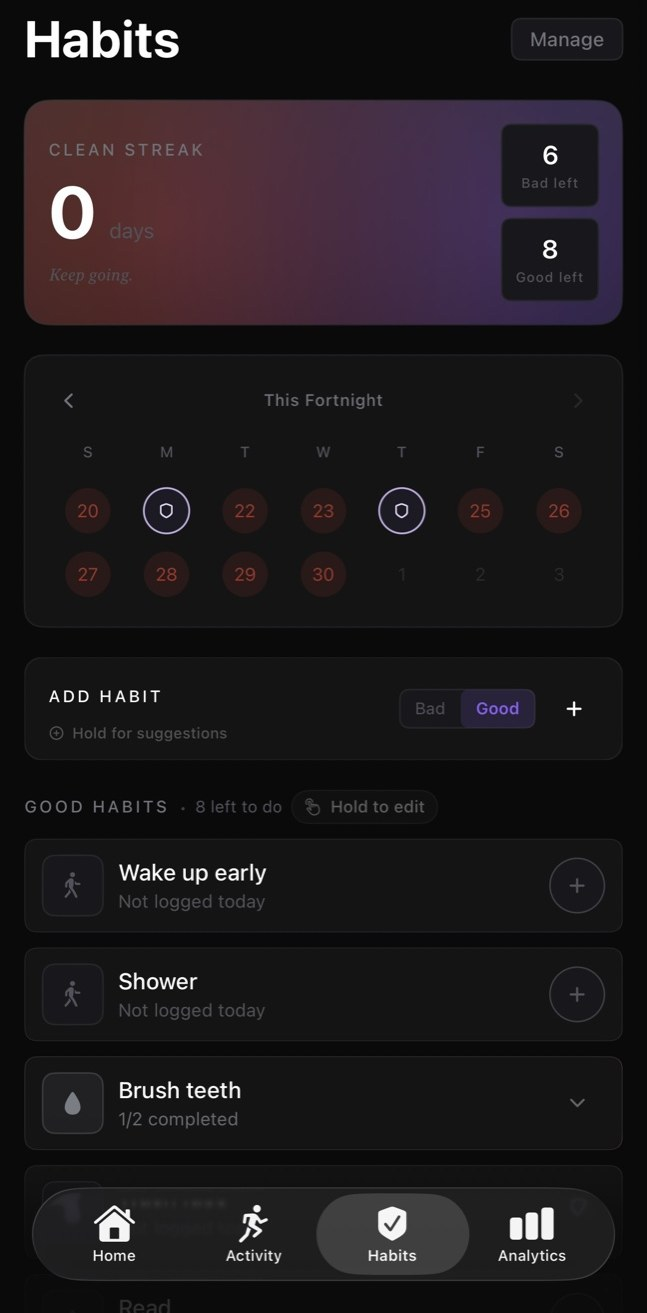
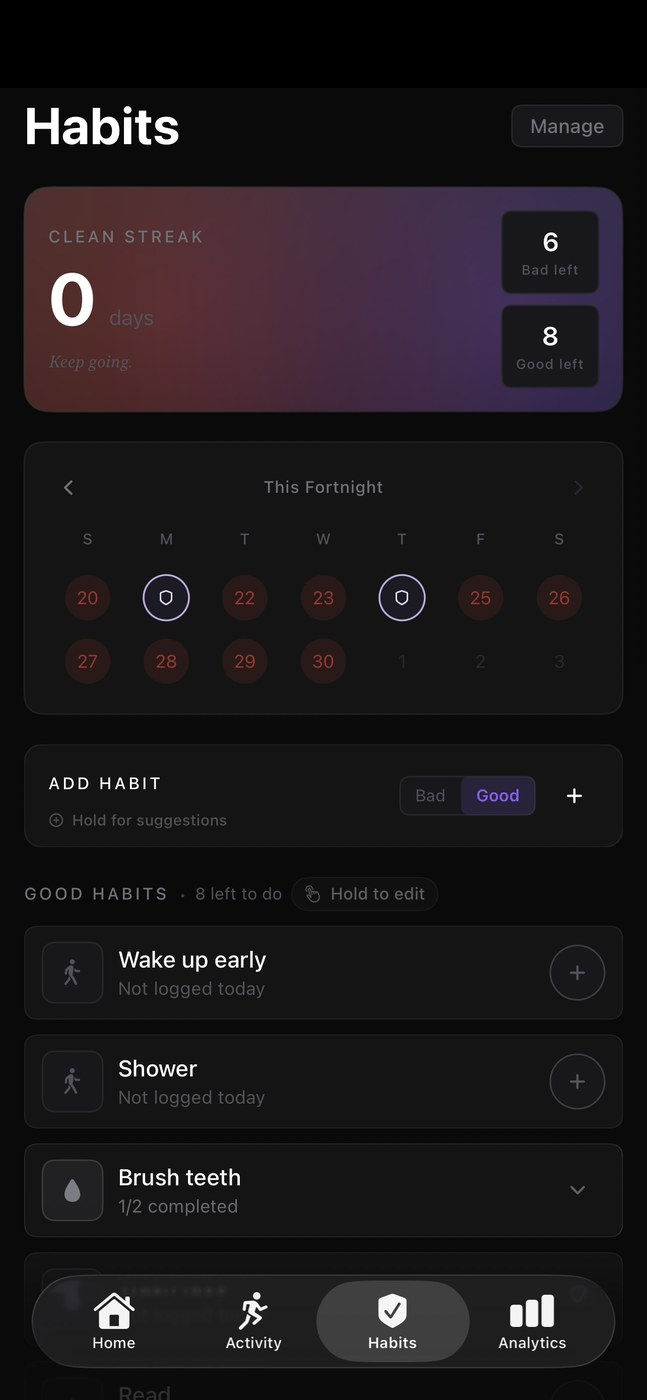
Lock phone frame aspect to screenshot, black out status bar
Restore screenshots to full 647x1400 and paint the top iOS status
bar region black in the source JPEGs instead of cropping it out.
Phone frame width/height now match the screenshot aspect exactly
(1:2.164) so the image fills 1:1 without scaling or distortion.

diff --git a/index.html b/index.html
@@ -376,8 +376,9 @@ nav.light .hamburger span { background: var(--black); }
 }
 
 .phone-frame {
+  /* Aspect locked to screenshot dimensions (647×1400 ≈ 1:2.164) */
   width: 268px;
-  height: 583px;
+  height: 580px;
   background: #000;
   border-radius: 52px;
   position: relative;
@@ -421,8 +422,7 @@ nav.light .hamburger span { background: var(--black); }
 .slide-screenshot {
   width: 100%;
   height: 100%;
-  object-fit: cover;  /* preserve aspect; tiny side crop is fine */
-  object-position: center top;
+  object-fit: fill;  /* frame aspect matches screenshot 647:1400, exact 1:1 fit */
   display: block;
 }
 
@@ -917,7 +917,7 @@ footer {
   .pricing-grid { max-width: 100%; }
   .pricing-card.standard { padding: 28px 20px; }
   .download-headline { font-size: clamp(32px, 8vw, 56px); }
-  .phone-frame { width: 230px; height: 500px; border-radius: 46px; }
+  .phone-frame { width: 230px; height: 498px; border-radius: 46px; }
   .slide-nav { gap: 14px; margin-top: 20px; }
 }
 
@@ -930,7 +930,7 @@ footer {
   }
   .ring-logo { font-size: 24px; }
   .ring-tagline { font-size: 14px; }
-  .phone-frame { width: 200px; height: 435px; border-radius: 40px; }
+  .phone-frame { width: 200px; height: 433px; border-radius: 40px; }
   .phone-frame::before { width: 88px; height: 22px; top: 10px; }
 }
 